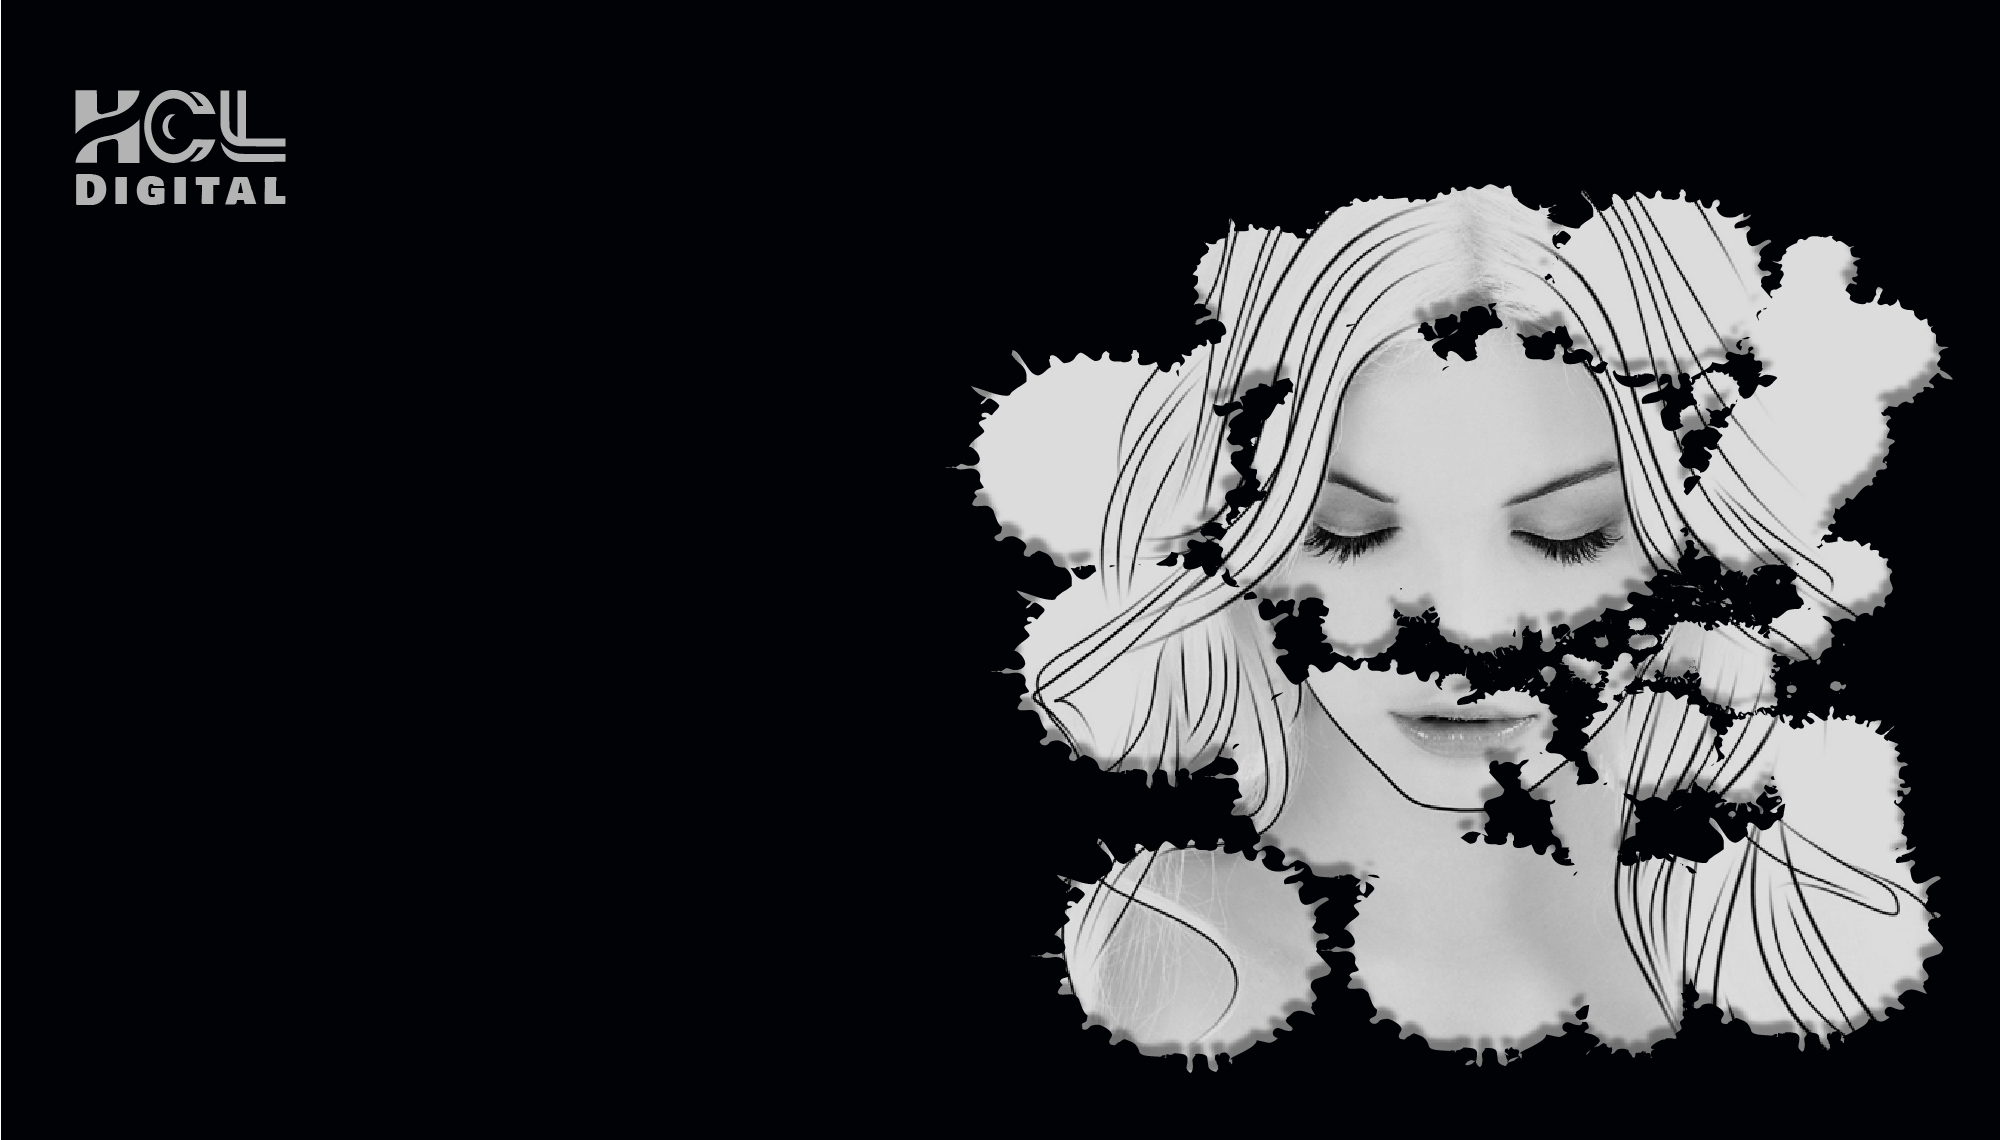
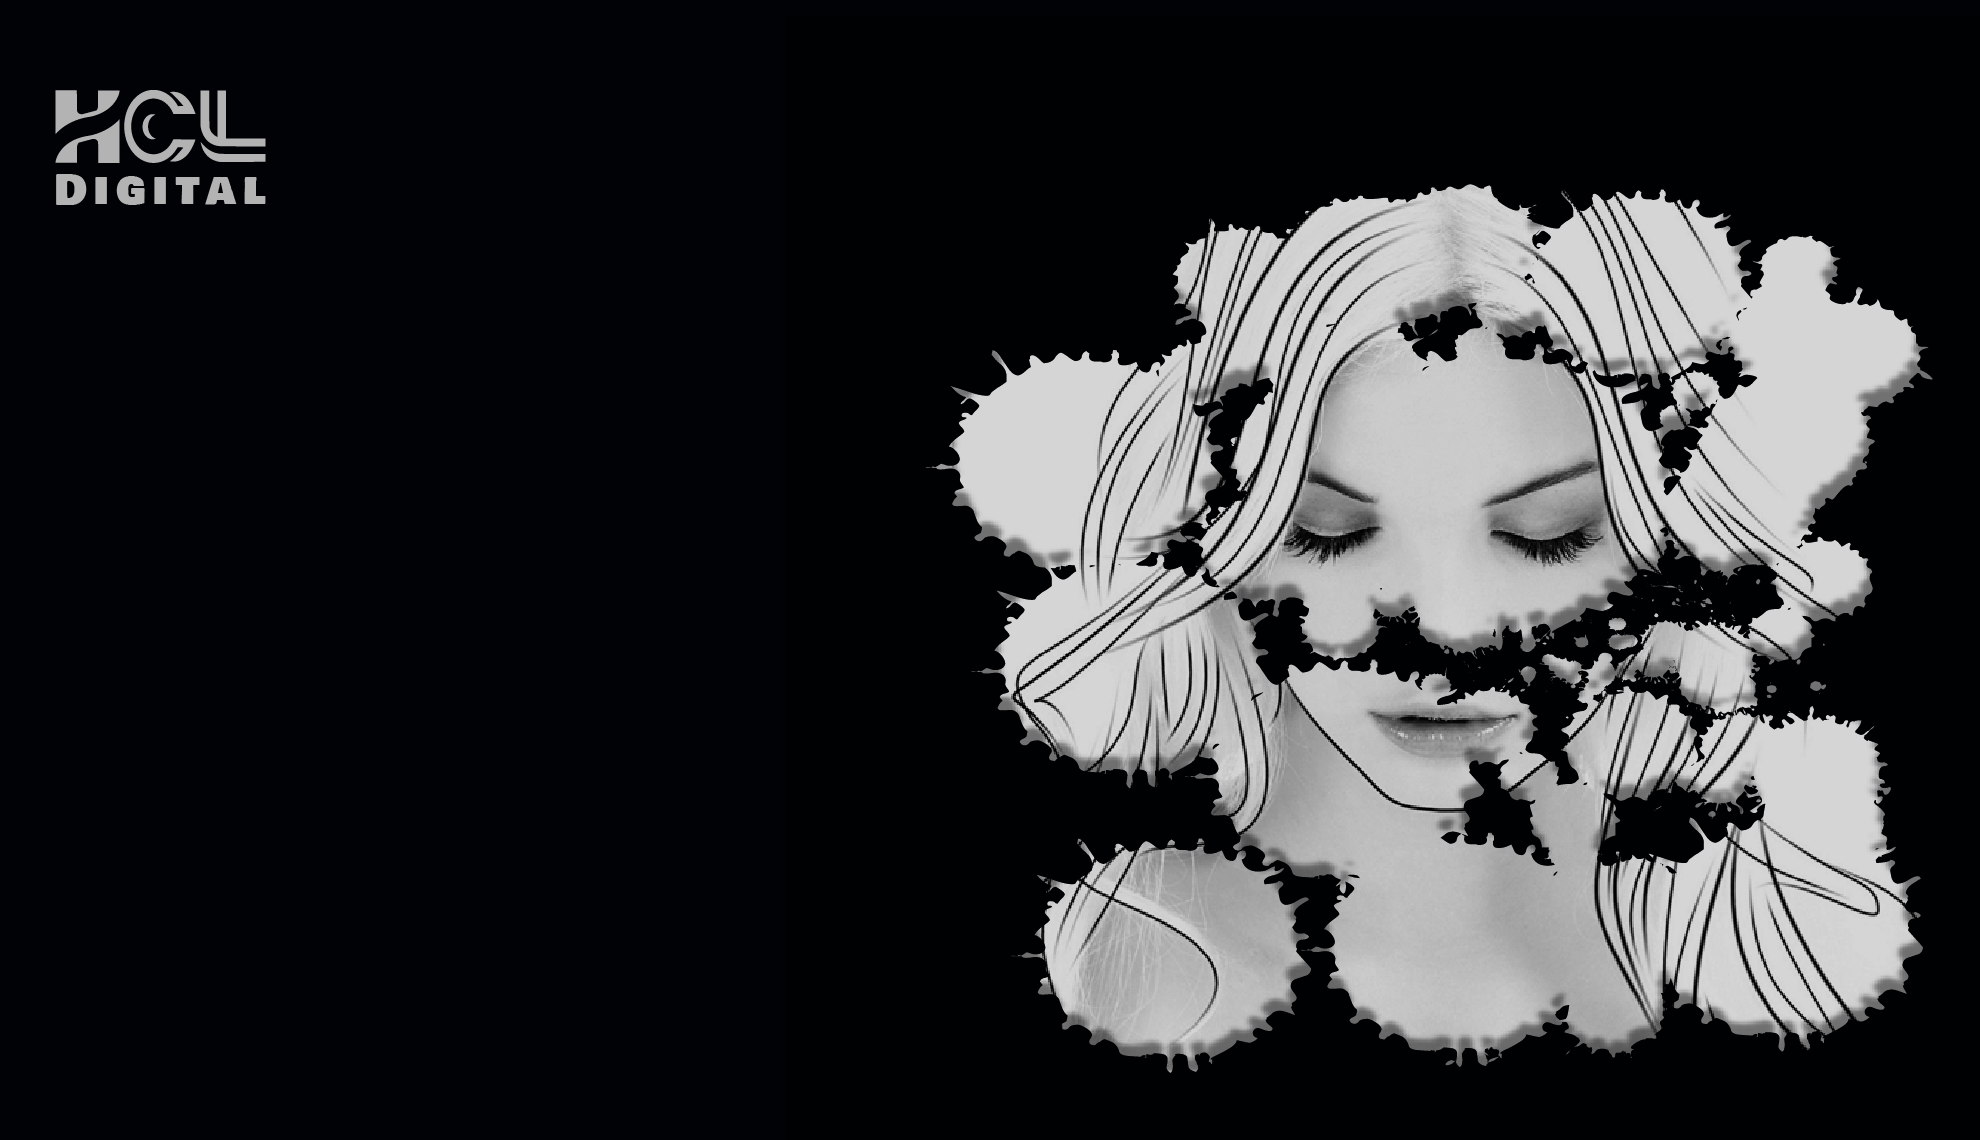
Add files via upload

diff --git a/index.html b/index.html
@@ -26,7 +26,7 @@
 				<div class="contentHcl">
 					<h2>Asesoría y Consultoría</br>
 					acorde a sus necesidades...</h2>
-					<p>sugieriendo estrategias sustentado en nuestro excelente equipo humano, el cual esta identificado en su labor diaria con los valores establecidos por la empresa HCL Digital, por lo tanto somos una empresa visionaria, orientada a la superación, enfocada al servicio de nuestro cliente y con mentalidad de líder referente en nuestro sector. </p>
+					<p>al sugerir las estrategias a seguir por nuestro excelente equipo humano, el cual esta identificado en su labor diaria con los valores establecidos por la empresa HCL Digital, por lo tanto somos una empresa visionaria, orientada a la superación, enfocada al servicio de nuestro cliente y con mentalidad de líder referente en nuestro sector. </p>
 					<a href="#">Comenzar</a>
 				</div>
 			</div>

diff --git a/css/style.css b/css/style.css
@@ -138,7 +138,7 @@ header .navigation li a:hover
 	section
 	{
 		padding: 40px;
-		background: url(../imagenes/bg2.jpg) black;
+		background: url(../imagenes/bg2.png) black;
 		background-size: cover;
 		background-position: center;
 	}
